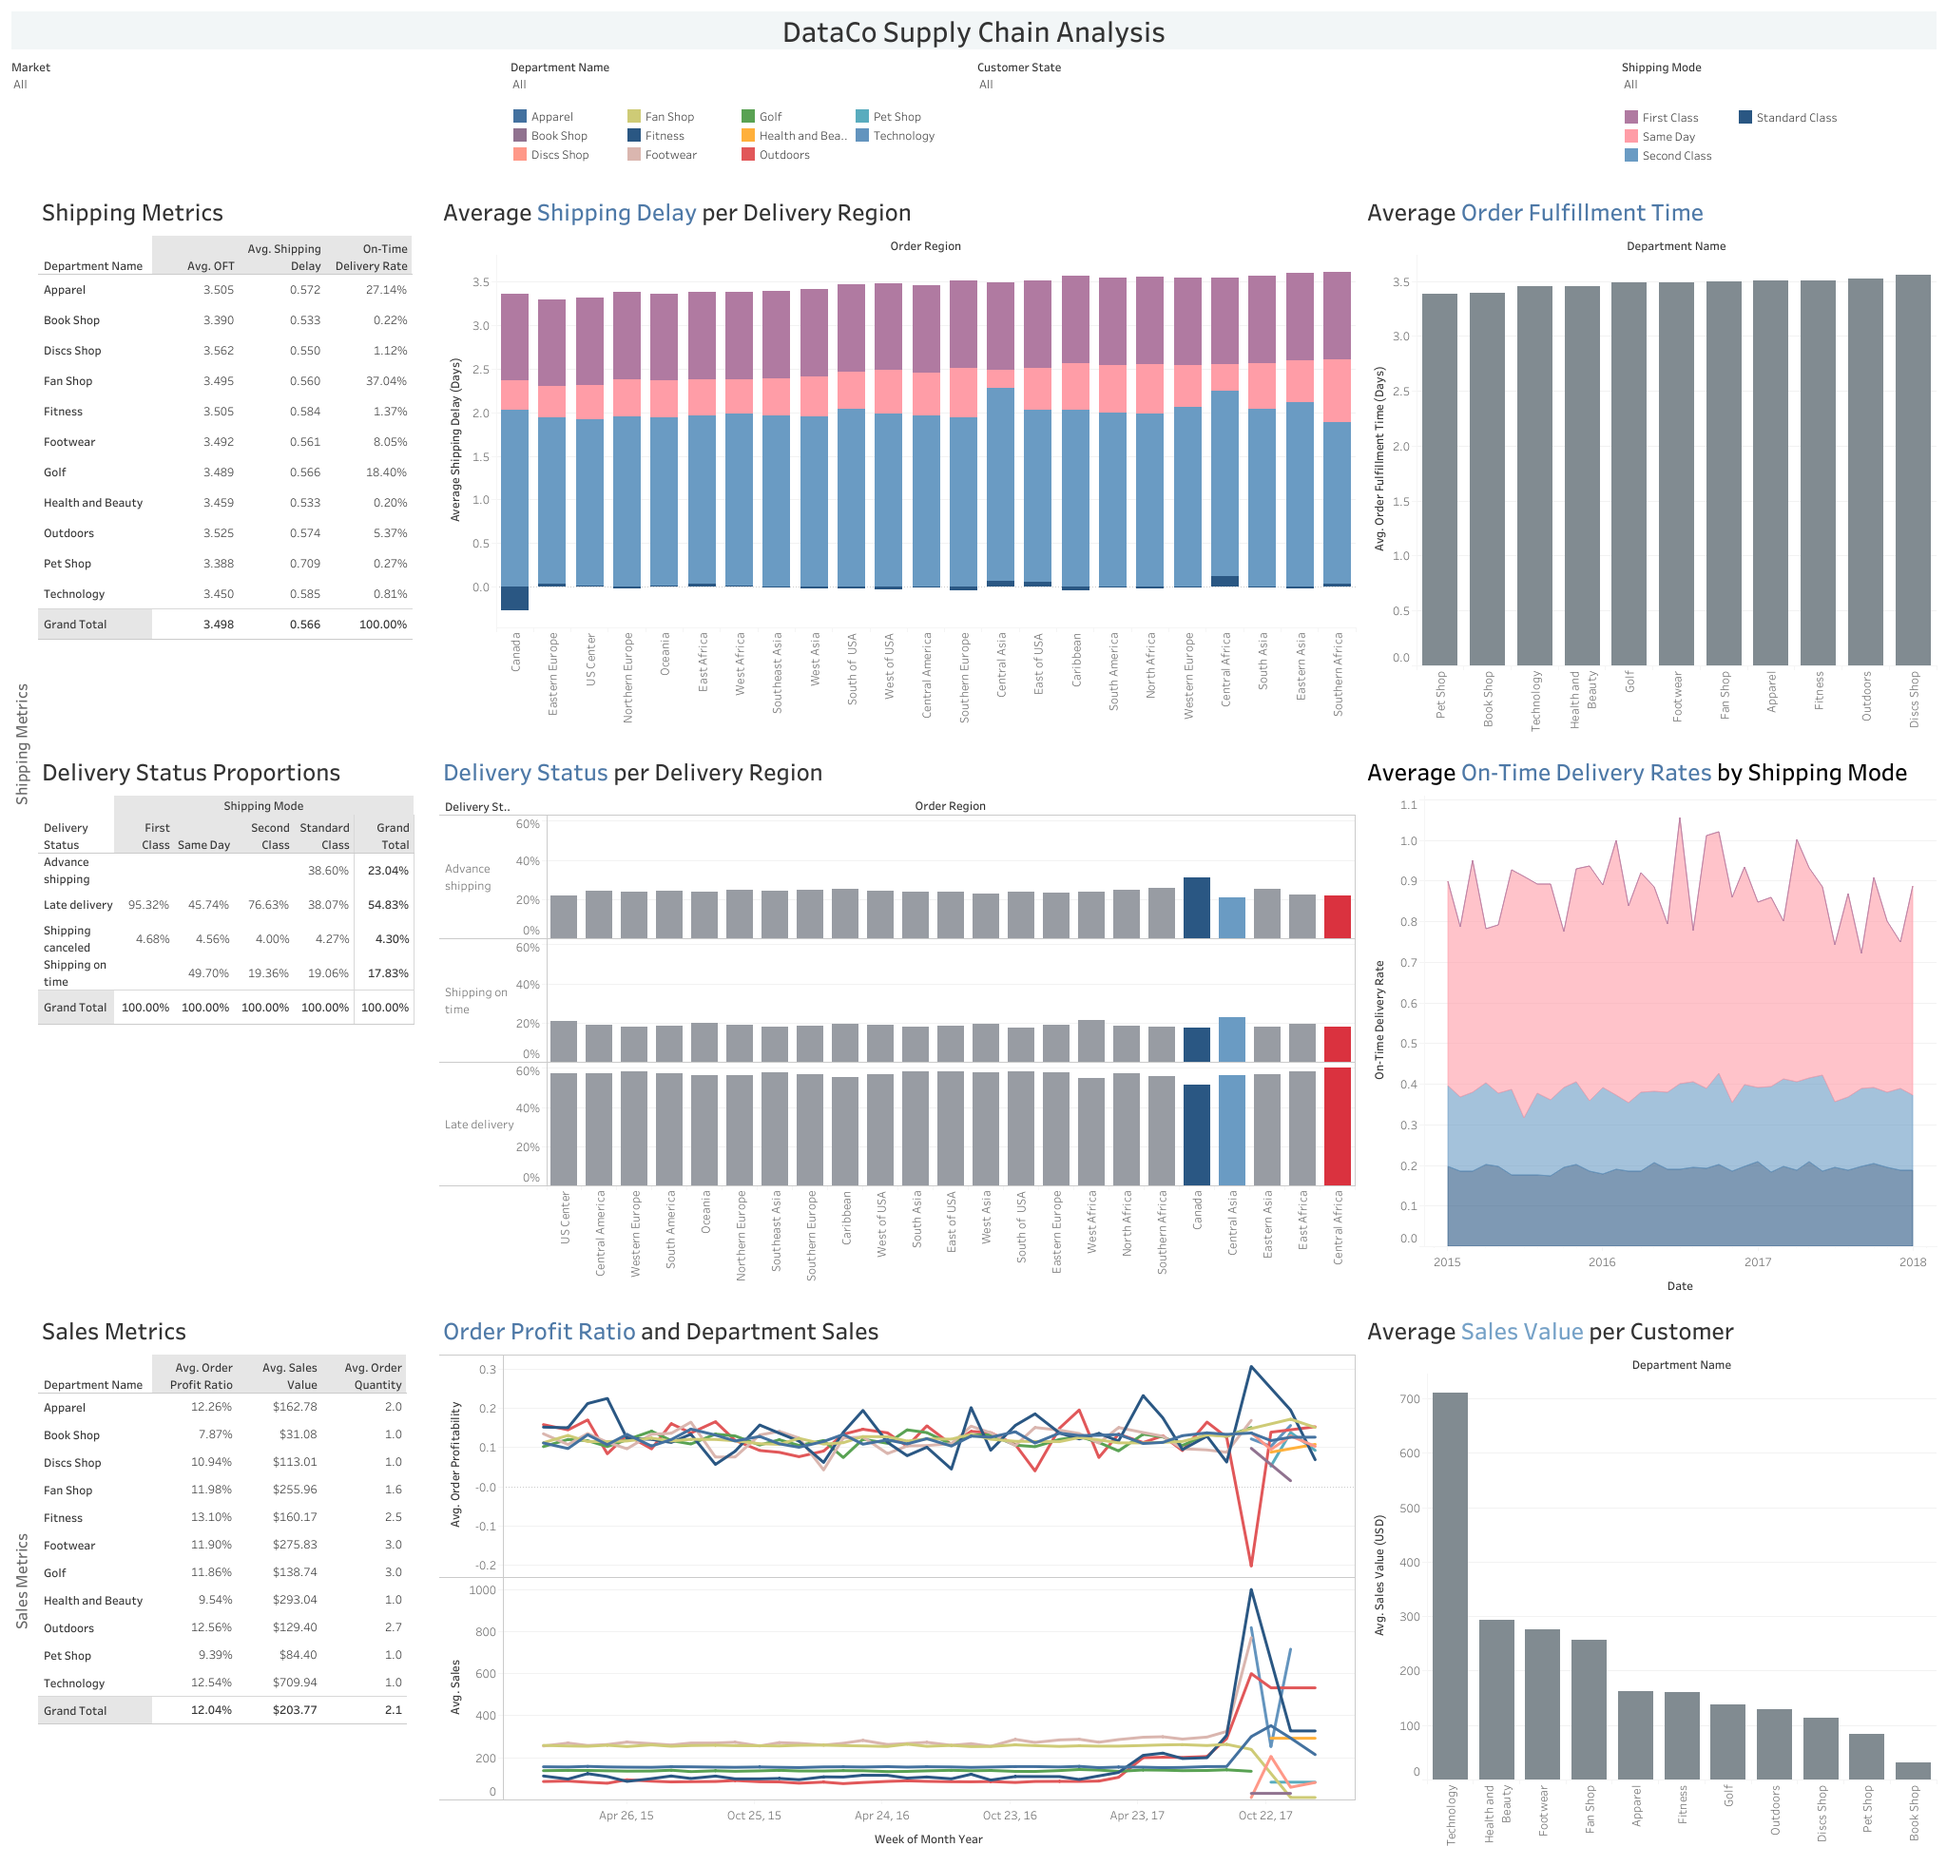
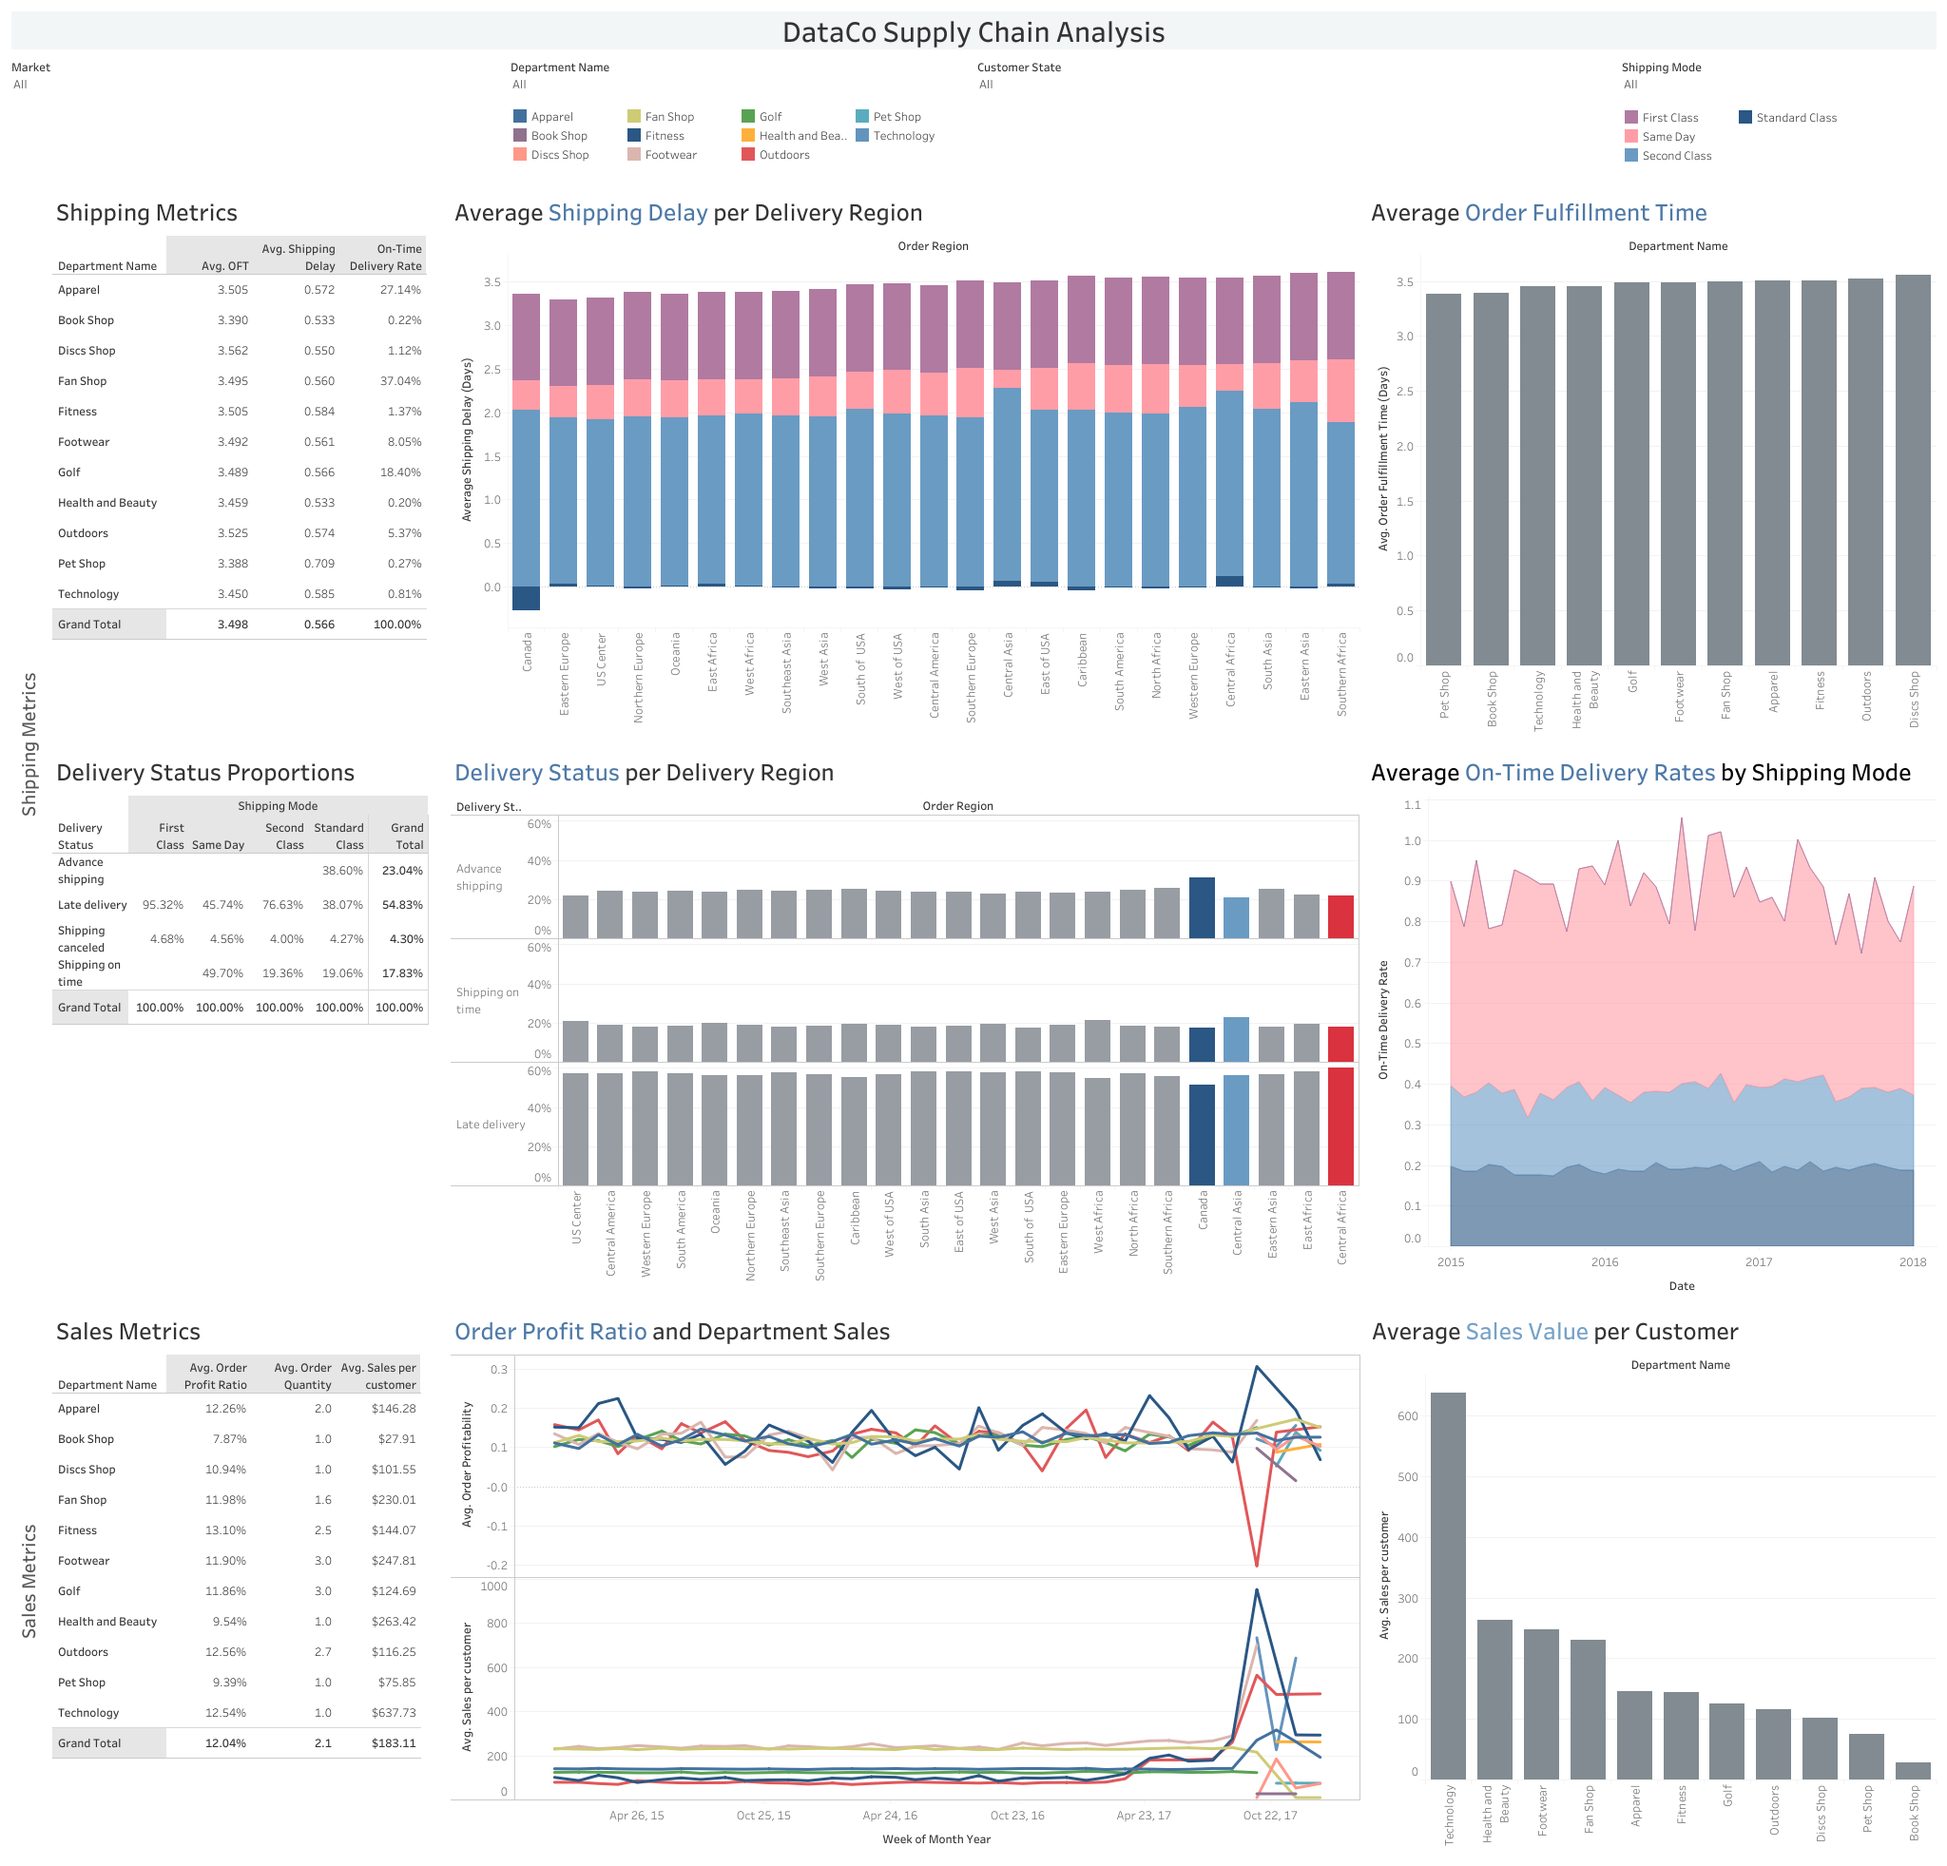
changes

diff --git a/README.md b/README.md
@@ -1,16 +1,35 @@
 # DataCo Supply Chain Analytics
+
+- **Goal and Dataset Structure**
+- **Insights Summary**
+- **Recommendations**
+- **Performance Dashboard**
+- **Presentation**
  
 ## Goal:
 The goal of this project is to investigate the operational efficiency of supply chains used by DataCo Global to surface recommendations on cost and delivery delay reductions.
 
 ## Dataset Structure:
-The dataset consisted of one table including information about customers, store locations, shipping locations, delivery status, among other variables.
+The dataset consisted of one table including information about customers, store locations, shipping locations, delivery status, among other variables. The key features and the table schema are shown below:
+
+![DataCo Table Schema](schema.png)
 
 ## Insights Summary:
 **In order to evaluate the operational efficiency and analyze sales, we focused on the following key metrics:**
 - **Order Fulfillment Time:** Order Shipping Date - Order Placement Date. This helps measure how fast a supply chain can handle shipping.
 - **On-Time Delivery Rate:** The percent of deliveries that arrive on-time to their destination.
 - **Order Item Profit Ratio:** The profit made from an order divided by the product price of the order before any discounts. This helps assess how profitable an item is relative to its price.
+- **Sales Value per Customer:** The average sales value of the purchases made by a customer.
+
+**Order Fulfillment Rate**
+- The **Pet Shop department** had the **lowest** average OFT of **3.39 days**. The Discs Shop department had the highest at almost 3.6 days. Both departments had a low number of orders.
+- **Same Day** deliveries had the **lowest** average OFT of **0.478 days**, although there were less than 10k orders. Standard Class deliveries had the highest at almost 4 days, but more than 50% of deliveries were shipped with Standard Class.
+- **All global markets had a similar average OFT**, with the fastest OFT in US-Canada and the slowest in Africa differing by less than 0.03 days.
+
+**On-Time Delivery Rate**
+- The **Discs Shop department** had the **highest** On-Time Delivery rate of **41.43% days**, while only having 839 orders. The Pet Shop department had the lowest at 37%, with only 182 orders.
+- **Standard Class** deliveries had the **highest** On-Time Delivery rate of **57.66%**, with over 62k orders arriving on-time. First Class deliveries had the lowest, with no orders arriving on-time.
+- **All global markets had a similar average On-Time Delivery Rate**, with the highest in Africa and the lowest in Europe differing only by around 1%.
 
 ## Recommendations:
 - 
@@ -23,7 +42,7 @@ The Tableau Public Dashboard can be viewed [here](https://public.tableau.com/vie
 ![DataCo Performance Dashboard](dashboard.png)
 
 ## Presentation Samples:
-The presentation created for a Logistics and Operations team walks through the insights and recommendations above and can be found here. Some extracts are presented below for easy viewing.
+The presentation created for a Logistics and Operations team walks through the insights and recommendations above and can be found [here](https://docs.google.com/presentation/d/1YRsjol2CDJYCgXTLvIrZK1GCY26MXXMTdnmRFiCXFrc/edit?usp=sharing). Some extracts are presented below for easy viewing.
 
 ## Data Source:
 Constante, Fabian; Silva, Fernando; Pereira, António (2019), “DataCo SMART SUPPLY CHAIN FOR BIG DATA ANALYSIS”, Mendeley Data, V5, doi: 10.17632/8gx2fvg2k6.5
